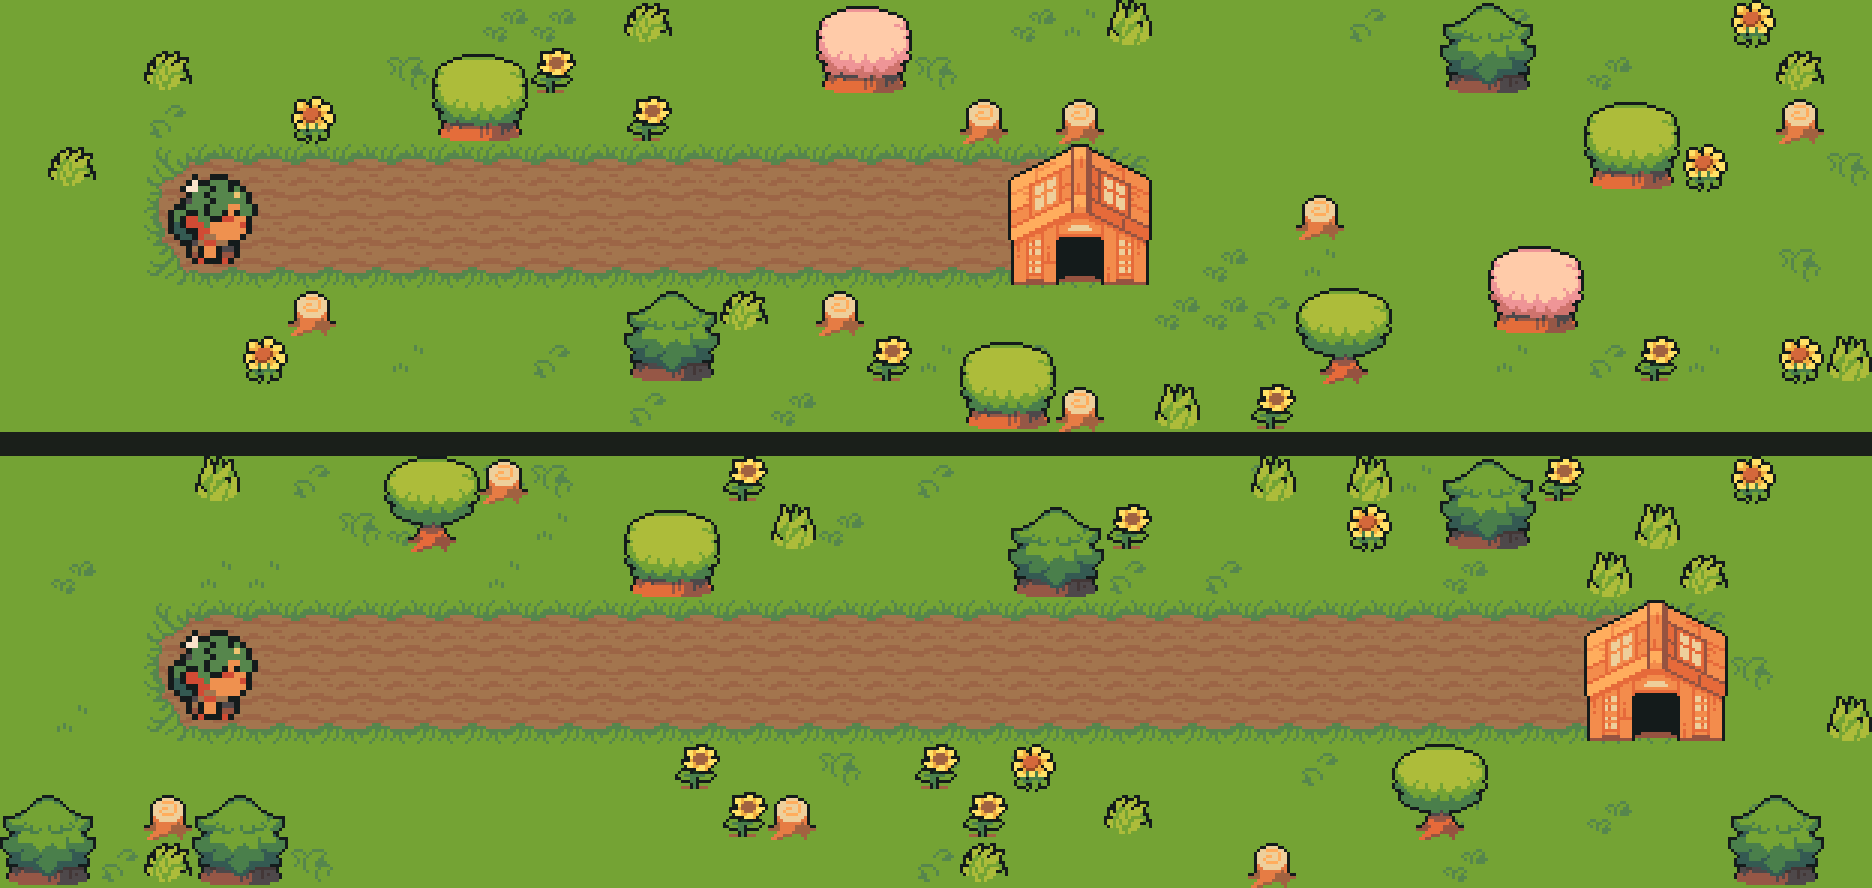
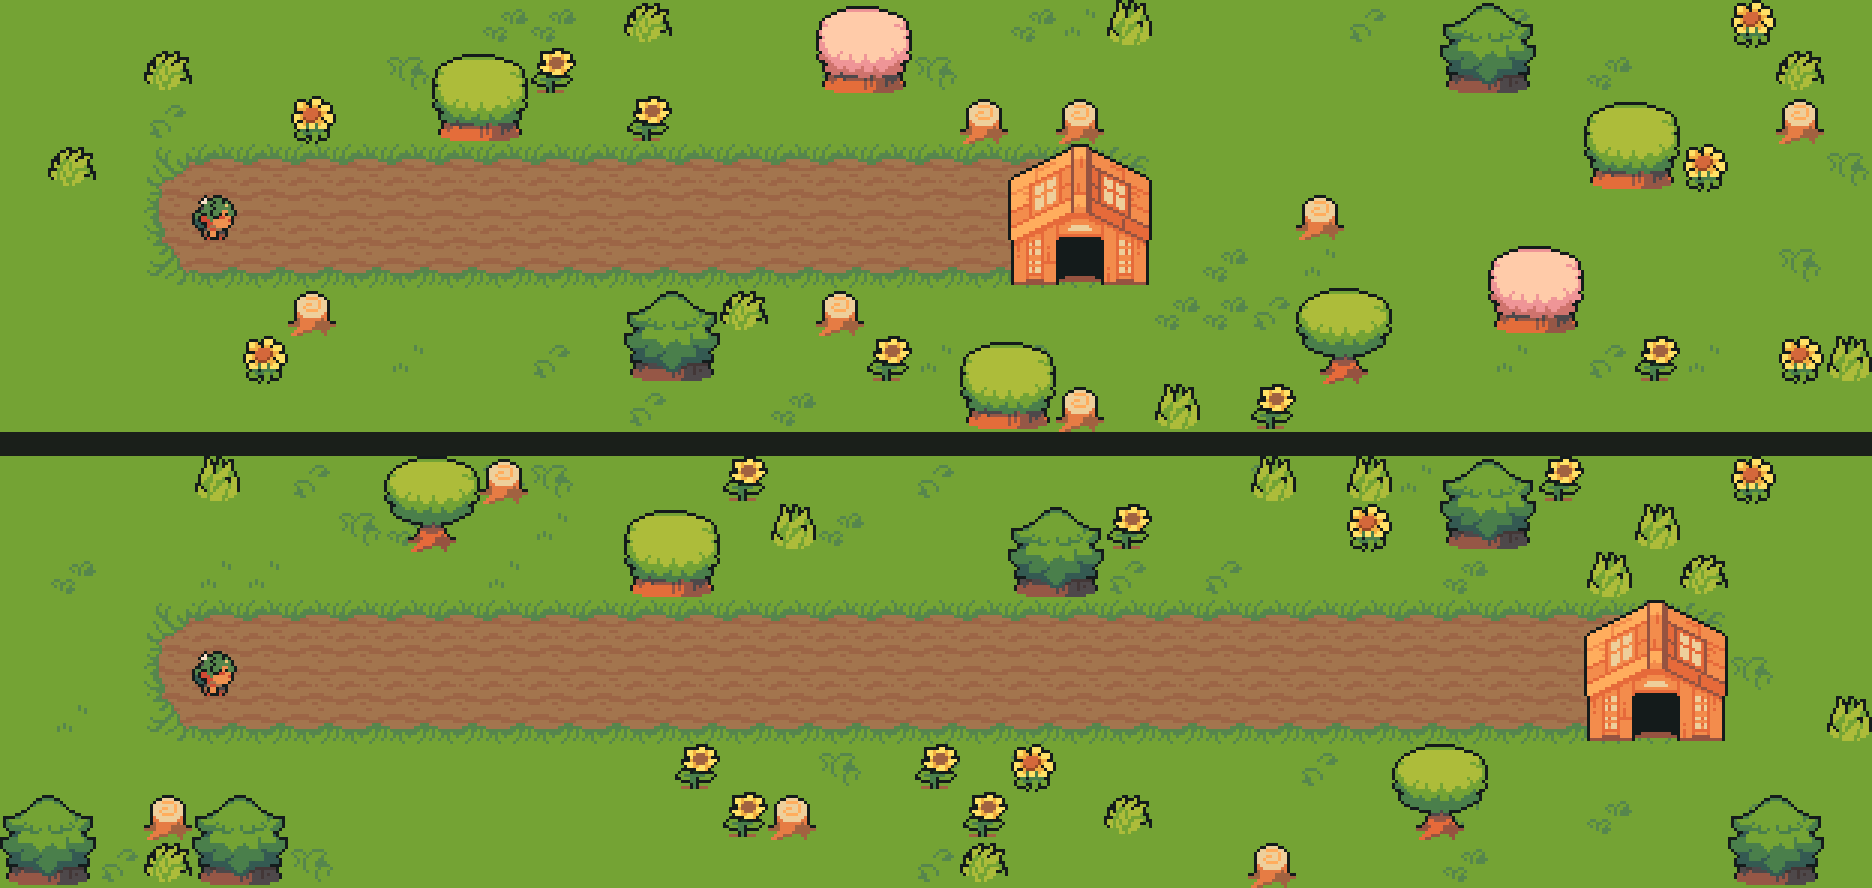
Thealivery : Théa à sa taille d'origine

Changed region(s): [[0.0929, 0.6993, 0.1549, 0.8209], [0.0929, 0.1824, 0.1549, 0.3041]]

diff --git a/conception/jeu/maquettes/maquette-v3.html b/conception/jeu/maquettes/maquette-v3.html
@@ -393,18 +393,18 @@
 			else if (tok === "M") ctx.drawImage(IMG.bang, 0, 0, 14, 13, x - 7, y - CELL / 2 - 11 + bob, 14, 13);
 			else if (tok === "D") ctx.drawImage(IMG.heart, 0, 0, 14, 13, x - 7, y - CELL / 2 - 11 + bob, 14, 13);
 		}));
-		// Théa, en double taille ; dans une mare, seulement sa tête et les ondulations
+		// Théa à sa taille d'origine ; dans une mare, seulement sa tête et les ondulations
 		const t = game.thea;
 		const [x, y] = [(2 * t.c + MARGIN) * CELL + CELL / 2, (2 * t.r + MARGIN) * CELL + CELL / 2];
 		const col = { "1,0": 0, "-1,0": 1, "0,-1": 2, "0,1": 3 }[t.dir.join()];
 		const row = t.walking ? Math.floor(tick / 6) % 4 : 0;
 		if (game.fx === "swim") {
-			ctx.drawImage(IMG.ripples, (Math.floor(tick / 8) % 4) * 16, 0, 16, 16, x - 16, y - 8, 32, 32);
-			ctx.drawImage(IMG.thea, 0, 0, 16, 9, x - 16, y - 14, 32, 18);
+			ctx.drawImage(IMG.ripples, (Math.floor(tick / 8) % 4) * 16, 0, 16, 16, x - 8, y - 4, 16, 16);
+			ctx.drawImage(IMG.thea, 0, 0, 16, 9, x - 8, y - 7, 16, 9);
 		} else {
-			const k = 2 * t.scale;
+			const k = t.scale;
 			ctx.globalAlpha = Math.max(0, Math.min(1, t.scale * 1.3));
-			ctx.drawImage(IMG.thea, col * 16, row * 16, 16, 16, x - 8 * k, y - 8 * k - 4, 16 * k, 16 * k);
+			ctx.drawImage(IMG.thea, col * 16, row * 16, 16, 16, x - 8 * k, y - 8 * k, 16 * k, 16 * k);
 			ctx.globalAlpha = 1;
 		}
 		cv.style.width = displayWidth(bg) + "px";

diff --git a/conception/jeu/maquettes/maquette-v3.modele.html b/conception/jeu/maquettes/maquette-v3.modele.html
@@ -393,18 +393,18 @@
 			else if (tok === "M") ctx.drawImage(IMG.bang, 0, 0, 14, 13, x - 7, y - CELL / 2 - 11 + bob, 14, 13);
 			else if (tok === "D") ctx.drawImage(IMG.heart, 0, 0, 14, 13, x - 7, y - CELL / 2 - 11 + bob, 14, 13);
 		}));
-		// Théa, en double taille ; dans une mare, seulement sa tête et les ondulations
+		// Théa à sa taille d'origine ; dans une mare, seulement sa tête et les ondulations
 		const t = game.thea;
 		const [x, y] = [(2 * t.c + MARGIN) * CELL + CELL / 2, (2 * t.r + MARGIN) * CELL + CELL / 2];
 		const col = { "1,0": 0, "-1,0": 1, "0,-1": 2, "0,1": 3 }[t.dir.join()];
 		const row = t.walking ? Math.floor(tick / 6) % 4 : 0;
 		if (game.fx === "swim") {
-			ctx.drawImage(IMG.ripples, (Math.floor(tick / 8) % 4) * 16, 0, 16, 16, x - 16, y - 8, 32, 32);
-			ctx.drawImage(IMG.thea, 0, 0, 16, 9, x - 16, y - 14, 32, 18);
+			ctx.drawImage(IMG.ripples, (Math.floor(tick / 8) % 4) * 16, 0, 16, 16, x - 8, y - 4, 16, 16);
+			ctx.drawImage(IMG.thea, 0, 0, 16, 9, x - 8, y - 7, 16, 9);
 		} else {
-			const k = 2 * t.scale;
+			const k = t.scale;
 			ctx.globalAlpha = Math.max(0, Math.min(1, t.scale * 1.3));
-			ctx.drawImage(IMG.thea, col * 16, row * 16, 16, 16, x - 8 * k, y - 8 * k - 4, 16 * k, 16 * k);
+			ctx.drawImage(IMG.thea, col * 16, row * 16, 16, 16, x - 8 * k, y - 8 * k, 16 * k, 16 * k);
 			ctx.globalAlpha = 1;
 		}
 		cv.style.width = displayWidth(bg) + "px";

diff --git a/conception/jeu/niveaux/generer.py b/conception/jeu/niveaux/generer.py
@@ -149,10 +149,9 @@ def render(level_id, grid_text, min_cells_w=0, moving_parts=True, meta=None):
             elif tok == "f" and moving_parts:
                 img.alpha_composite(LEAF, (px + T, py + T))
             elif tok.startswith("T") and moving_parts:
-                # Théa en double taille (32 x 32), centrée dans sa case de 48 x 48
+                # Théa à sa taille d'origine (16 x 16), centrée dans sa case de 48 x 48
                 frame = HERO.crop((HERO_COL[tok[1]] * T, 0, HERO_COL[tok[1]] * T + T, T))
-                frame = frame.resize((2 * T, 2 * T), Image.NEAREST)
-                img.alpha_composite(frame, (px + T // 2, py + T // 2))
+                img.alpha_composite(frame, (px + T, py + T))
     if meta is not None:
         meta["obstacles"] = {f"{r},{c}": ("mare" if o is POND else "trou") for (r, c), o in obstacles.items()}
         meta["cells_w"], meta["cells_h"] = cells_w, cells_h

diff --git a/conception/jeu/04-conception-du-jeu.md b/conception/jeu/04-conception-du-jeu.md
@@ -441,7 +441,7 @@ novembre 2026 :
 
 | Élément    | Choix                                                                                            |
 | :--------- | :----------------------------------------------------------------------------------------------- |
-| Personnage | `Cavegirl`, qui incarne **Théa, la livreuse de thé**, en double taille (32 × 32)                 |
+| Personnage | `Cavegirl`, qui incarne **Théa, la livreuse de thé**, à sa taille d'origine (16 × 16)            |
 | Routes     | Terre sur herbe foncée                                                                           |
 | Maisons    | Au hasard parmi la boutique, la maison de pierre et le pignon orange                             |
 | Obstacles  | Au hasard : une mare, où Théa tombe et nage, ou un trou, où elle tombe                           |
@@ -477,8 +477,9 @@ Décisions qui suivent les images :
 - **Personnage** : Vincent a d'abord pensé à Circé et ses potions, puis est
   revenu à **Théa, la livreuse de thé**. Le nom du jeu, Thealivery, reste. Le
   sprite reste celui de `Cavegirl`.
-- **Taille** : Théa est dessinée en double taille, 32 × 32 pixels, centrée dans
-  sa case de 48 × 48. Le mélange d'échelles est assumé, pour la lisibilité.
+- **Taille** : Théa est dessinée à sa taille d'origine, 16 × 16 pixels, centrée
+  dans sa case de 48 × 48, à la même échelle que le reste du pack. La double
+  taille (32 × 32) a été essayée, puis abandonnée à la demande de Vincent.
 - **Nage** : `Cavegirl` n'a pas d'animation de nage. Quand elle tombe dans une
   mare, on ne montrera que sa tête, avec les ondulations animées du pack
   (`Backgrounds/Animated/Water Ripples`). Dans un trou, elle tombe.
